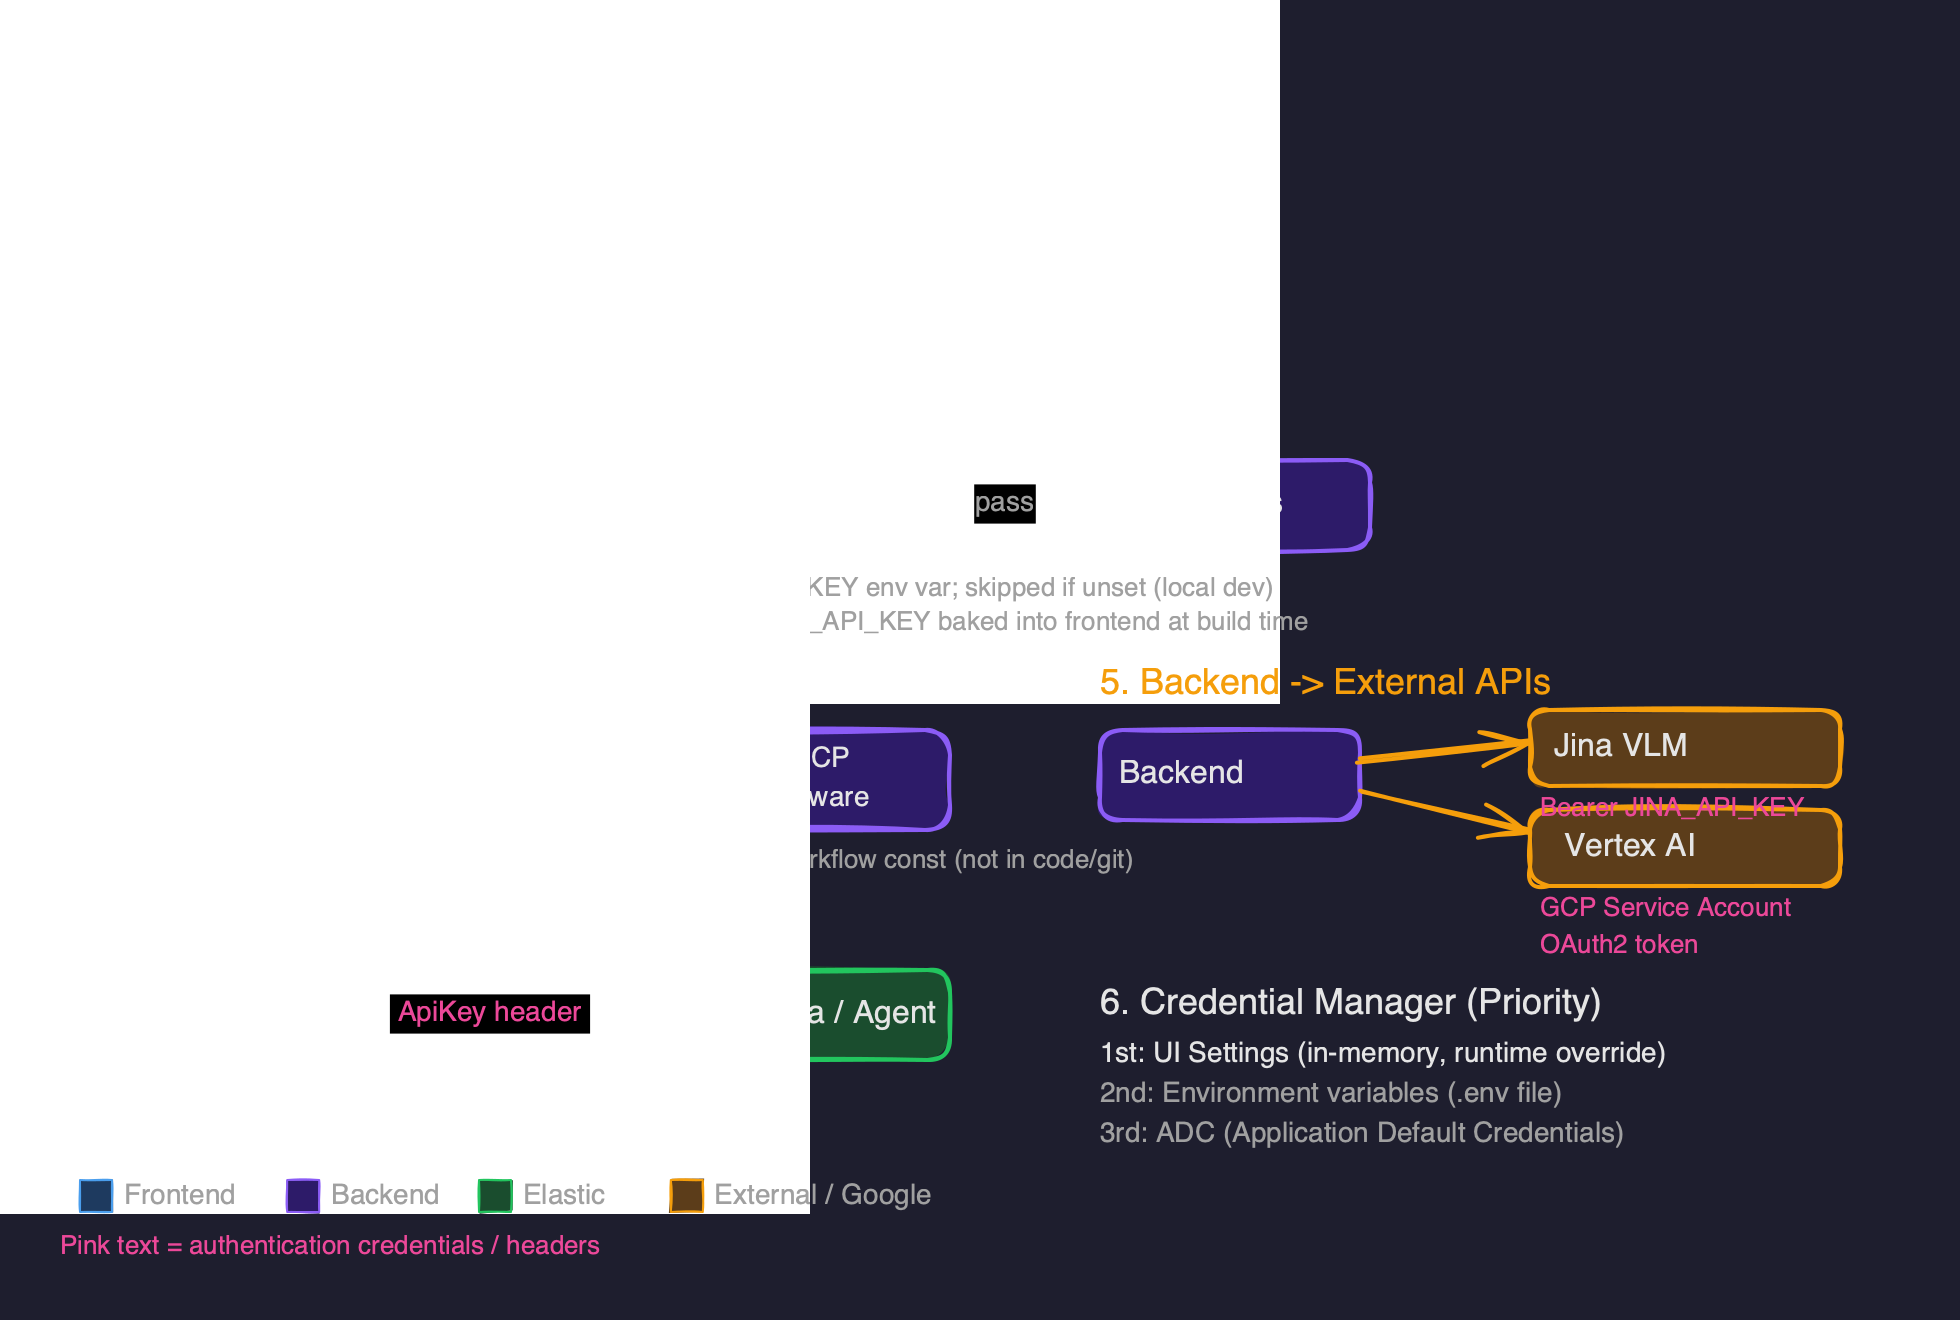
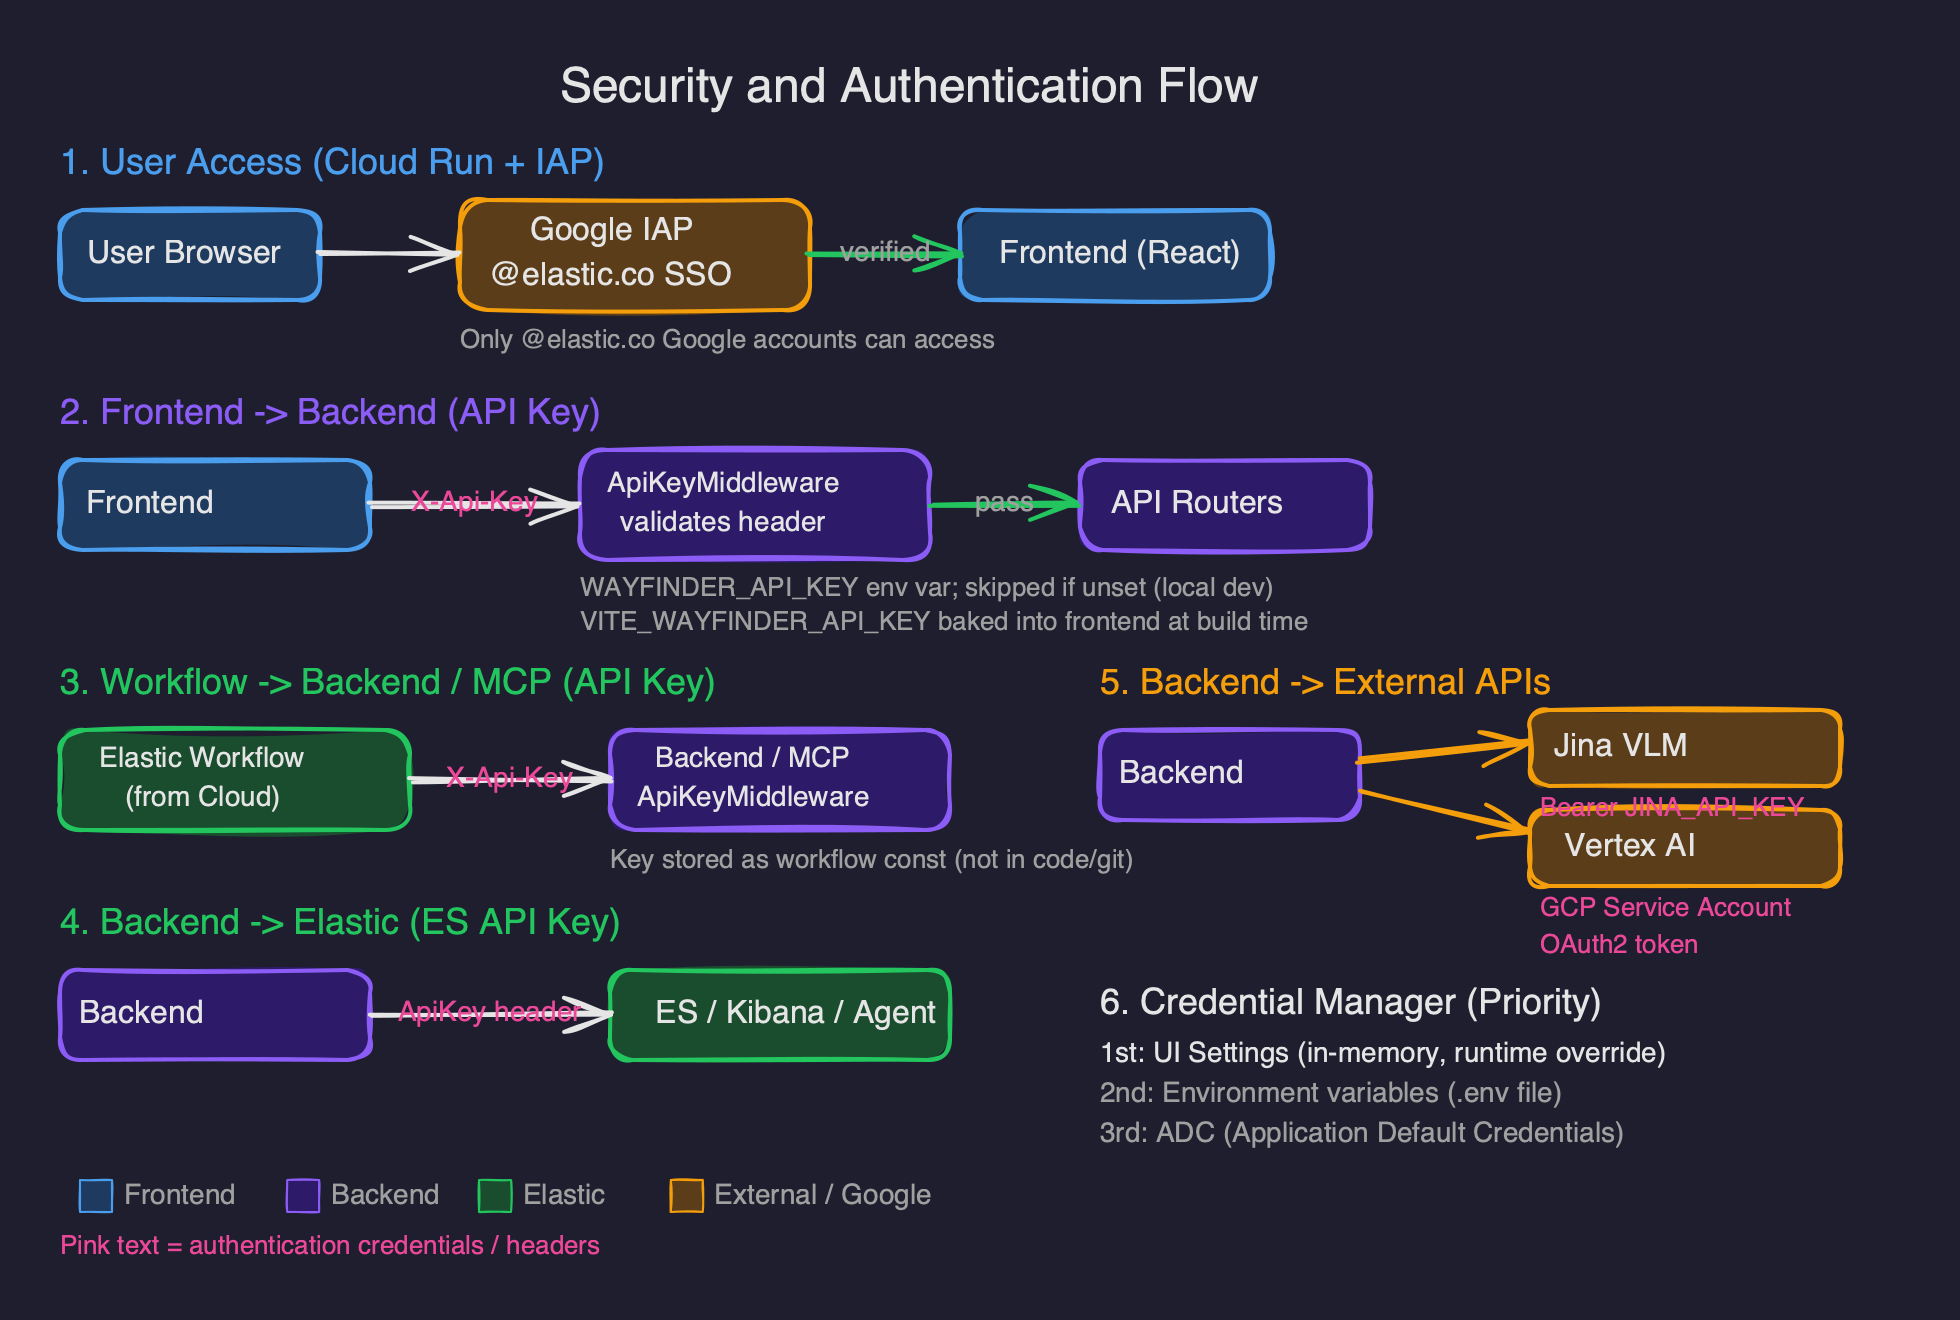
Fix architecture diagram PNGs broken by cairosvg mask rendering bug
cairosvg mishandled <mask> elements in kroki.io-generated Excalidraw SVGs,
causing diagrams to render with content pushed off-canvas. Strip masks
before SVG-to-PNG conversion as a workaround.

diff --git a/scripts/render_diagrams.py b/scripts/render_diagrams.py
@@ -611,10 +611,23 @@ def build_cloudrun():
 # ── Render & Save ────────────────────────────────────────────────────
 
 def svg_to_png(svg_path, png_path, scale=2):
-    """Convert SVG to PNG using cairosvg (2x scale for retina clarity)."""
+    """Convert SVG to PNG using cairosvg (2x scale for retina clarity).
+
+    Strips <mask> elements and mask= attributes before conversion because
+    cairosvg mishandles the large mask rects that kroki.io/Excalidraw emits,
+    causing the rendered image to be pushed off-canvas.
+    """
     try:
+        import re
         import cairosvg
-        cairosvg.svg2png(url=svg_path, write_to=png_path, scale=scale)
+        with open(svg_path, "r") as f:
+            svg_text = f.read()
+        # Strip mask elements and mask= attributes (cairosvg rendering bug)
+        svg_text = re.sub(r"<mask[^>]*>.*?</mask>", "", svg_text, flags=re.DOTALL)
+        svg_text = re.sub(r"<mask[^>]*/>", "", svg_text)
+        svg_text = re.sub(r' mask="url\(#[^)]+\)"', "", svg_text)
+        cairosvg.svg2png(bytestring=svg_text.encode("utf-8"),
+                         write_to=png_path, scale=scale)
         size = os.path.getsize(png_path)
         print(f"  Saved {png_path} ({size:,} bytes)")
     except ImportError:
